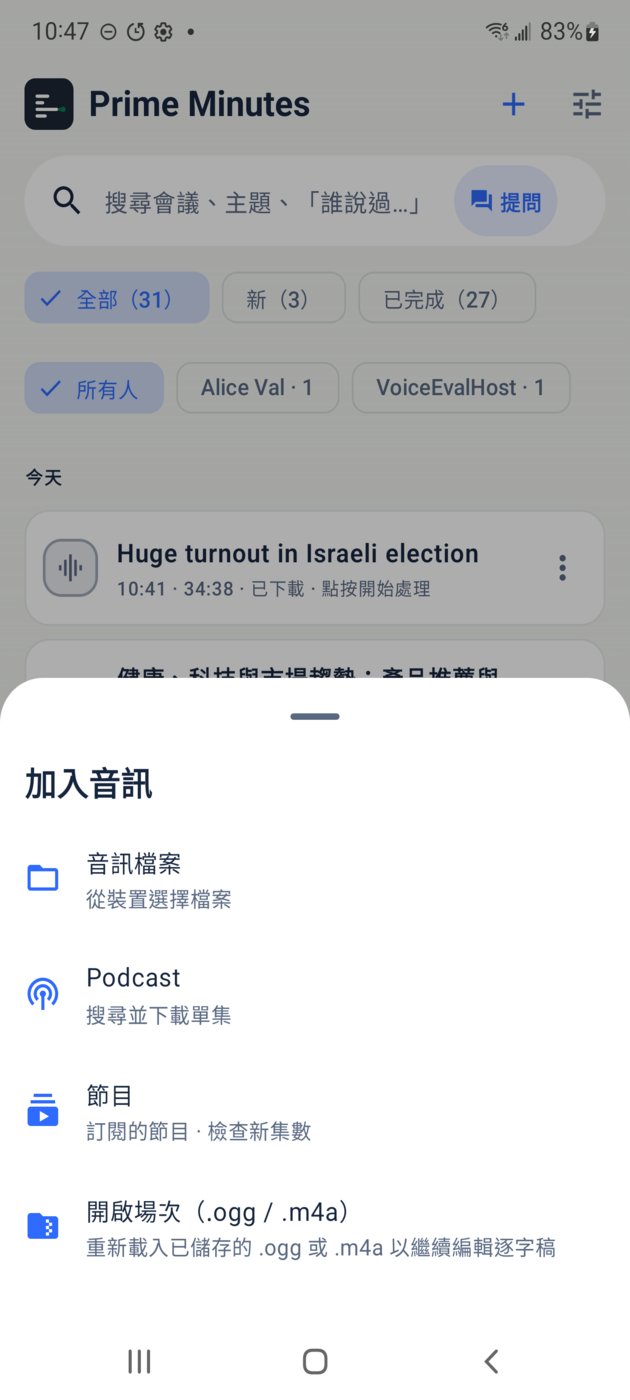
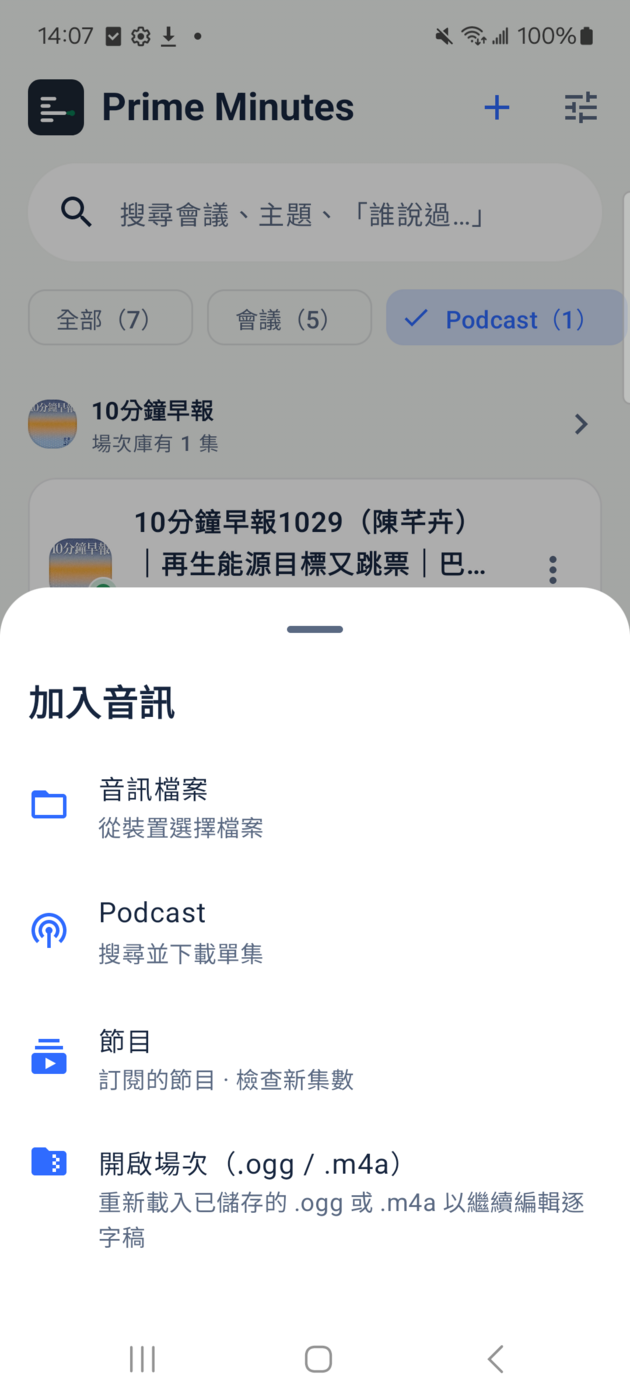
release: iOS 0.55.0 (build 21); slides v2.56 with library by source
- Info.plist: CFBundleShortVersionString 0.55.0, CFBundleVersion 21.
- Slides v2.56 (版次 2026-10-29): library slide shows the source chips, import
  slide shows the new Add sheet and the channel page, received meetings
  bullet; version lines Android v0.55.0 / iOS 0.55.0 build 21; APK QR
  points to the v0.55.0 asset.

ios/tests/run.sh PASS; archive UUID 304B2155-CB32-3E8C-AA23-F72605EED7B8
matches a rebuild; DEV build 21 launched on the iPhone 17e.

diff --git a/slides/PrimeMinutes-zh-TW.html b/slides/PrimeMinutes-zh-TW.html
@@ -110,7 +110,7 @@ table.t.rowlab tr:nth-child(even) td:first-child { background:#e8eef4; }
     </div>
   </div>
   <p style="margin-top:14px; color:#93a1af; font-size:.8em">標誌：墨色的紀錄頁，一條綠色關鍵線釘住整場的重點</p>
-  <p style="margin-top:6px; color:#93a1af; font-size:.8em">簡報 v2.55 · Android v0.53.18 · iOS 0.53.1 build 13 · 版次 2026-10-29</p>
+  <p style="margin-top:6px; color:#93a1af; font-size:.8em">簡報 v2.56 · Android v0.55.0 · iOS 0.55.0 build 21 · 版次 2026-10-29</p>
 </section>
 
 <!-- 2 問題 -->
@@ -198,7 +198,7 @@ table.t.rowlab tr:nth-child(even) td:first-child { background:#e8eef4; }
 <section class="slide">
   <div class="kicker">會議庫</div><h2>想找什麼，用說的也找得到</h2>
   <div class="cols">
-    <div class="col"><div class="shot"><img src="img/meeting-search-zh.png"></div><div class="cap">會議內搜尋：點結果直接跳到那句原話</div></div>
+    <div class="col"><div class="shot"><img src="img/library-sources-zh.png"></div><div class="cap">首頁照來源分：會議、Podcast、別人傳來的，一點就切換</div></div>
     <div class="col"><div class="shot"><img src="img/search.gif"></div><div class="cap">首頁搜尋：「誰提到預算」這樣問也找得到</div></div>
     <div class="col"><ul class="big" style="font-size:.9em;gap:.5em">
       <li><b>不用記得原話怎麼講</b>：打意思、打關鍵字都找得到，全部會議一起找。</li>
@@ -227,12 +227,13 @@ table.t.rowlab tr:nth-child(even) td:first-child { background:#e8eef4; }
   <div class="kicker">不只錄音</div><h2>匯入音訊檔 · Podcast</h2>
   <div class="cols">
     <div class="col"><div class="shot"><img src="img/07-add-source.png"></div><div class="cap">首頁「＋」：檔案 / Podcast / 節目</div></div>
-    <div class="col"><div class="shot"><img src="img/08-podcast.png"></div><div class="cap">Podcast 單集匯入後：邊轉錄邊出逐字稿，語者即時分開</div></div>
+    <div class="col"><div class="shot"><img src="img/channel-zh.png"></div><div class="cap">節目頁：還沒抓的新集數、已經在會議庫的，分開列好</div></div>
     <div class="col"><ul class="big" style="font-size:.9em;gap:.5em">
       <li>手機裡的音訊檔（mp3、wav、m4a……）直接匯入；Podcast 搜尋節目、挑一集就好，也能訂閱。</li>
       <li>線上內容僅供個人使用，請先確認你有權下載和轉錄。</li>
       <li>匯入的內容跟自己錄的一樣：逐字稿、筆記、摘要、搜尋、提問<b>全部都有</b>。</li>
       <li>下載可以<b>暫停再繼續</b>，網路斷了也不會白費。</li>
+      <li>同事傳來的會議檔，點一下就<b>整場打開</b>：逐字稿、筆記、摘要都在，不用重跑。</li>
     </ul></div>
   </div>
 </section>
@@ -338,7 +339,7 @@ table.t.rowlab tr:nth-child(even) td:first-child { background:#e8eef4; }
     <span class="pill">iOS TestFlight 公開測試</span>
     <span class="pill">github.com/vieenrose/PrimeMinutes</span>
   </div>
-  <p style="margin-top:14px; color:#93a1af; font-size:.8em">目前 Android v0.53.18 · iOS 0.53.1 TestFlight build 13 · 簡報 v2.55</p>
+  <p style="margin-top:14px; color:#93a1af; font-size:.8em">目前 Android v0.55.0 · iOS 0.55.0 TestFlight build 21 · 簡報 v2.56</p>
   <p style="margin-top:6px; color:#93a1af; font-size:.8em">小提醒：開會時把手機放桌子中央、靠近講話的人，分人分得最準；答案都附出處，重要的事點回原話確認一下。</p>
   <p class="lede" style="margin-top:26px">謝謝！示範與 Q&amp;A 時間。</p>
 </section>
